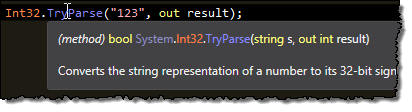
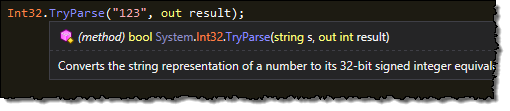
Anonymous types are correctly displayed (#6).

diff --git a/GammaJul.ReSharper.EnhancedTooltip/Presentation/CSharpColorizer.cs b/GammaJul.ReSharper.EnhancedTooltip/Presentation/CSharpColorizer.cs
@@ -271,6 +271,9 @@ namespace GammaJul.ReSharper.EnhancedTooltip.Presentation {
 			var declaredType = type as IDeclaredType;
 			if (declaredType != null)
 				AppendDeclaredType(declaredType, expectedNamespaceDisplay);
+
+			if (type is IAnonymousType)
+				AppendText("anonymous type", null);
 		}
 
 		private void AppendArrayType([NotNull] IArrayType arrayType, NamespaceDisplays expectedNamespaceDisplay) {

diff --git a/README.md b/README.md
@@ -3,7 +3,13 @@
 
 What's ReSharper.EnhancedTooltip?
 --------------
-It's a plugin for [JetBrains ReSharper](http://www.jetbrains.com/resharper/) 8.2 that colorizes the tooltip as well as the parameter information popup.  
+It's a plugin for [JetBrains ReSharper](http://www.jetbrains.com/resharper/) 8.2 that enhances the tooltip and parameter information popup.  
+
+- Colorizes tooltips and parameter information popups for C#.
+- Displays icons for identifiers and issues in the tooltip.
+- Uses the colors and font configured in Visual Studio.
+- When working with JetBrains annotations, can display [CanBeNull] and [NotNull] attributes.
+- Everything is configurable.
 
 Installation
 ------------
@@ -23,9 +29,15 @@ The parameter information popup is now syntax highlighted.
 The colors used for the types are either the ones having a name starting by _ReSharper_ if _Color identifiers_ is used, or the Visual Studio ones starting with _User Types_ otherwise.  
 ![Parameter Info Highlighting](https://raw.github.com/MrJul/ReSharper.EnhancedTooltip/master/Screenshots/ParameterInfo.png "Parameter Info Highlighting")
 
+Options
+-------
+Enhanced Tooltip provides many options to configure the display as you like.  
+The options page is located at ReSharper → Options → Environment → IntelliSense → Enhanced Tooltip.  
+![Options Page](https://raw.github.com/MrJul/ReSharper.EnhancedTooltip/master/Screenshots/Options.png "Options Page")
+
 Current Limitations
 -----------
-- Only works in C# files. The standard tooltip and parameter information popup are used in other file types.  
+- Colors only work in C# files. The standard tooltip and parameter information popup are used in other file types.  
 - The parameter information popup isn't highlighted for calls using named parameters.  
 
 Licensed under [Apache License 2.0](http://www.apache.org/licenses/LICENSE-2.0)
